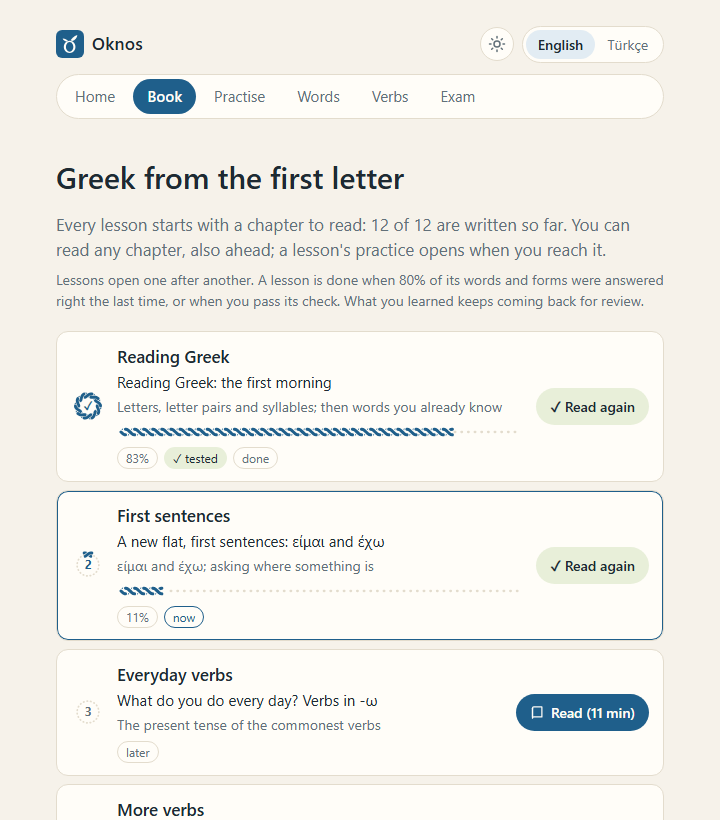
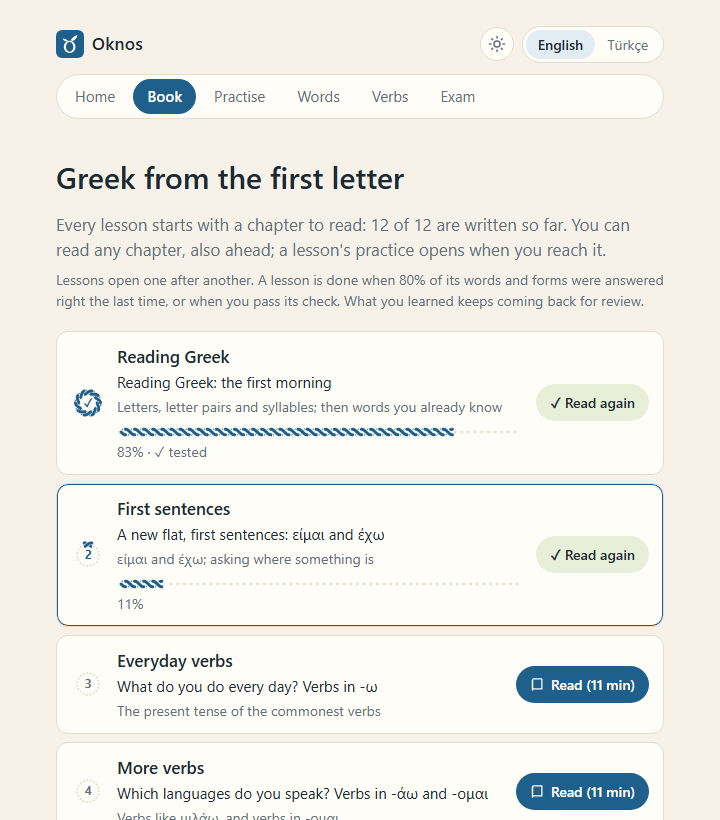
Verbs grouped by lesson; the book's tags become one quiet line
- The verbs page lists verbs under the lesson they first appear in. The
  lessons reached come first; later lessons are folded into one group
  ("Later lessons: 48 verbs"), instead of a long list of greyed-out rows.
  /api/verbs now also returns the lessons and the current one.
- In the book, the ring and the rope already show where a lesson stands,
  so the three chips (percent, tested, done/now/later) are one muted line:
  "83% · ✓ tested".

diff --git a/web/app.js b/web/app.js
@@ -1586,10 +1586,12 @@ async function renderBook() {
   try { cur = await api("/api/curriculum"); } catch { return showError(); }
   if (!cur.curriculum) return go("home", null, { replace: true });
   const rows = cur.stages.map((st, i) => {
-    const marks = h("span", { class: "map-marks small" },
-      st.core && st.state !== "locked" ? h("span", { class: "mark-chip" }, `${Math.round(st.share * 100)}%`) : null,
-      st.passed_check ? h("span", { class: "mark-chip on" }, `✓ ${t("map_checked")}`) : null,
-      h("span", { class: `mark-chip state-${st.state}` }, t(`map_${st.state}`)));
+    // The ring and the rope already say where a lesson stands; one quiet line adds the number.
+    const shown = st.core && st.state !== "locked";
+    const marks = shown || st.passed_check ? h("span", { class: "muted small book-meta" },
+      shown ? `${Math.round(st.share * 100)}%` : null,
+      shown && st.passed_check ? " · " : null,
+      st.passed_check ? `✓ ${t("map_checked")}` : null) : null;
     const read = st.chapter
       ? navLink("lesson", st.chapter.read ? `✓ ${t("ch_reread_short")}` : [icon("book"), t("ch_read_short", { minutes: st.chapter.minutes })],
           st.id, `book-read ${st.chapter.read ? "done" : ""}`)
@@ -1754,8 +1756,29 @@ async function renderVerbs() {
         h("span", { class: "muted small" }, v.open ? t("v_known", { n: v.known, total: v.forms.length }) : t("w_locked"))),
       h("div", { class: "table-wrap" }, table), practise);
   });
+  // Lesson by lesson: the lessons reached come first, each under its name; the verbs of later
+  // lessons wait in one folded group, so the page is not a long list of greyed-out rows.
+  const stages = data.stages || [];
+  const current = data.current ?? -1;
+  const groups = new Map();
+  data.verbs.forEach((v, i) => {
+    const key = v.first_stage < stages.length ? v.first_stage : -1;
+    if (!groups.has(key)) groups.set(key, []);
+    groups.get(key).push(rows[i]);
+  });
+  const reached = [], later = [];
+  for (const [idx, list] of groups) {
+    const st = stages[idx];
+    const head = h("h2", { class: "verb-group" }, st ? t("v_lesson", { n: idx + 1, title: tr(st.title) }) : t("v_group_none"),
+      h("span", { class: "muted small" }, ` · ${list.length}`));
+    (idx >= 0 && idx > current ? later : reached).push(head, ...list);
+  }
+  const laterCount = data.verbs.filter(v => v.first_stage < stages.length && v.first_stage > current).length;
+  const laterFold = later.length ? h("details", { class: "verb-later" },
+    h("summary", {}, t("v_group_later", { n: laterCount })), later) : null;
   app.replaceChildren(...appBar("verbs"),
-    h("section", { class: "summary" }, h("h1", {}, t("nav_verbs")), h("p", { class: "muted small" }, t("v_line")), rows));
+    h("section", { class: "summary verbs-page" }, h("h1", {}, t("nav_verbs")), h("p", { class: "muted small" }, t("v_line")),
+      reached, laterFold));
 }
 
 // ---------- the chapter reader: read first, then practise (phase 5c) ----------

diff --git a/web/style.css b/web/style.css
@@ -667,3 +667,8 @@ article.card:focus { outline: none; }
 .done-day .done-head h1 { margin: 0 0 6px; }
 .done-day .done-head .line { margin: 0; }
 .today-rope { display: grid; gap: 2px; margin: 4px 0 16px; padding: 12px 16px; border: 1px solid var(--line); border-radius: var(--radius); background: var(--surface); }
+.book-meta { margin-top: -2px; }
+.verbs-page .verb-group { font-size: 15px; margin: 22px 0 4px; color: var(--ink); }
+.verbs-page .verb-group:first-of-type { margin-top: 14px; }
+.verb-later { margin-top: 22px; border-top: 1px solid var(--line); padding-top: 10px; }
+.verb-later > summary { cursor: pointer; color: var(--muted); font-weight: 600; padding: 6px 0; }

diff --git a/tests/test_curriculum.py b/tests/test_curriculum.py
@@ -125,9 +125,13 @@ def test_word_and_verb_lists(learner, client):
     assert by_key["open-alphabet/l-alfa"]["open"] and by_key["open-alphabet/l-alfa"]["status"] == "new"
     assert by_key["open-shared-words-tr/v-kafes"]["stage"] == "reading"
     assert not any(w["open"] for w in words["words"] if w["stage"] == "b1-bridge")
-    verbs = client.get("/api/verbs").json()["verbs"]
+    vdata = client.get("/api/verbs").json()
+    verbs = vdata["verbs"]
     eimai = next(v for v in verbs if v["lemma"] == "είμαι")
     assert not eimai["open"] and eimai["forms"]  # είμαι comes in the second stage
+    # the screen groups verbs by the lesson they first appear in, and folds the lessons not reached
+    assert vdata["current"] == 0 and vdata["stages"][eimai["first_stage"]]["id"] == "first-words"
+    assert vdata["stages"][0]["title"]["en"]
     stage = client.get("/api/curriculum/stages/first-words").json()
     assert stage["state"] == "locked" and stage["forms_list"] and stage["can_check"]
     assert client.get("/api/curriculum/stages/nope").status_code == 404

diff --git a/src/oknos/session.py b/src/oknos/session.py
@@ -939,7 +939,10 @@ def verb_table(conn: sqlite3.Connection, catalog: Catalog, ui_lang: str) -> dict
     for v in out:
         v["open"] = any(f["open"] for f in v["forms"])
         v["known"] = sum(1 for f in v["forms"] if f["status"] in ("secure", "known"))
-    return {"verbs": out}
+    # the lessons the verbs are grouped under: the screen lists them lesson by lesson
+    stages = ([{"index": i, "id": st.id, "title": st.title.model_dump()} for i, st in enumerate(prog.curriculum.stages)]
+              if prog else [])
+    return {"verbs": out, "stages": stages, "current": prog.current if prog else None}
 
 
 def stage_detail(conn: sqlite3.Connection, catalog: Catalog, ui_lang: str, stage_id: str) -> dict | None:
